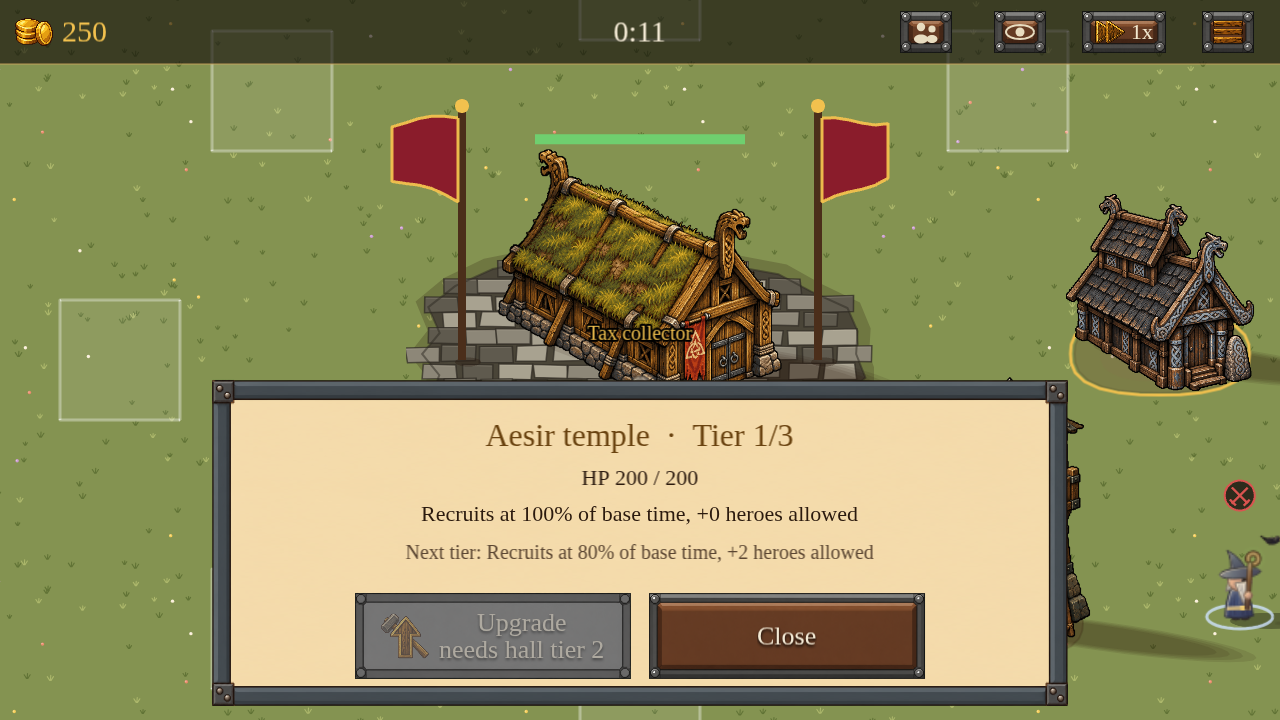
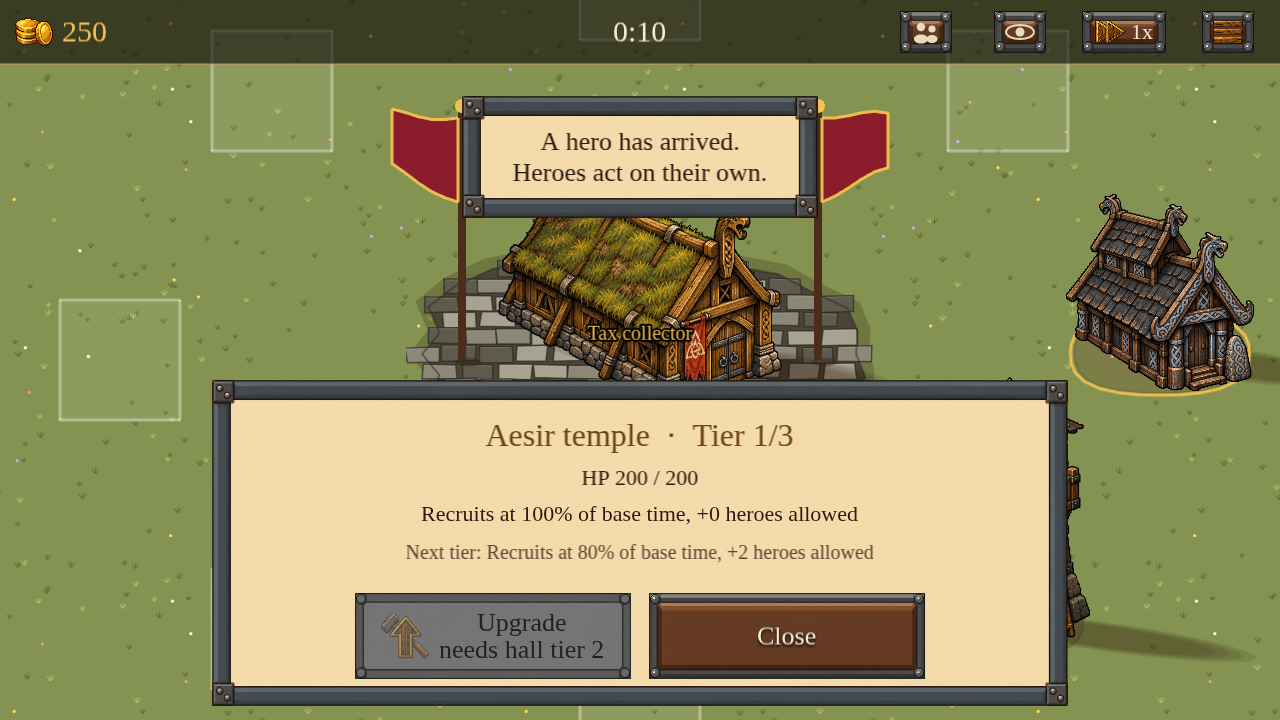
fix(scene): the label of a disabled kit button is dark ink, readable on the grey picture
Claude-Session: https://claude.ai/code/session_01EDKMoTWRabZMeHFkhrUDvd

diff --git a/src/ui/button.ts b/src/ui/button.ts
@@ -158,7 +158,13 @@ export function makeButton(
     } else if (g) {
       g.setTexture(buttonTexture(scene, w, h, state, !!opts.flat));
     }
-    text.setAlpha(enabled ? 1 : 0.45);
+    // On the kit's grey disabled picture the label is dark ink at full strength: it often says why
+    // the button is locked ("needs hall tier 2") and must stay readable.
+    if (art && !enabled) text.setColor('#1d1814').setShadow(0, 0, '#000000', 0).setAlpha(0.92);
+    else {
+      text.setColor(COLORS.text).setShadow(0, 2, '#000000', 3, false, true);
+      text.setAlpha(enabled ? 1 : 0.45);
+    }
     text.y = pressed ? 2 : 0;
     icon?.setAlpha(enabled ? 1 : 0.45).setY(pressed ? 2 : 0);
   };
